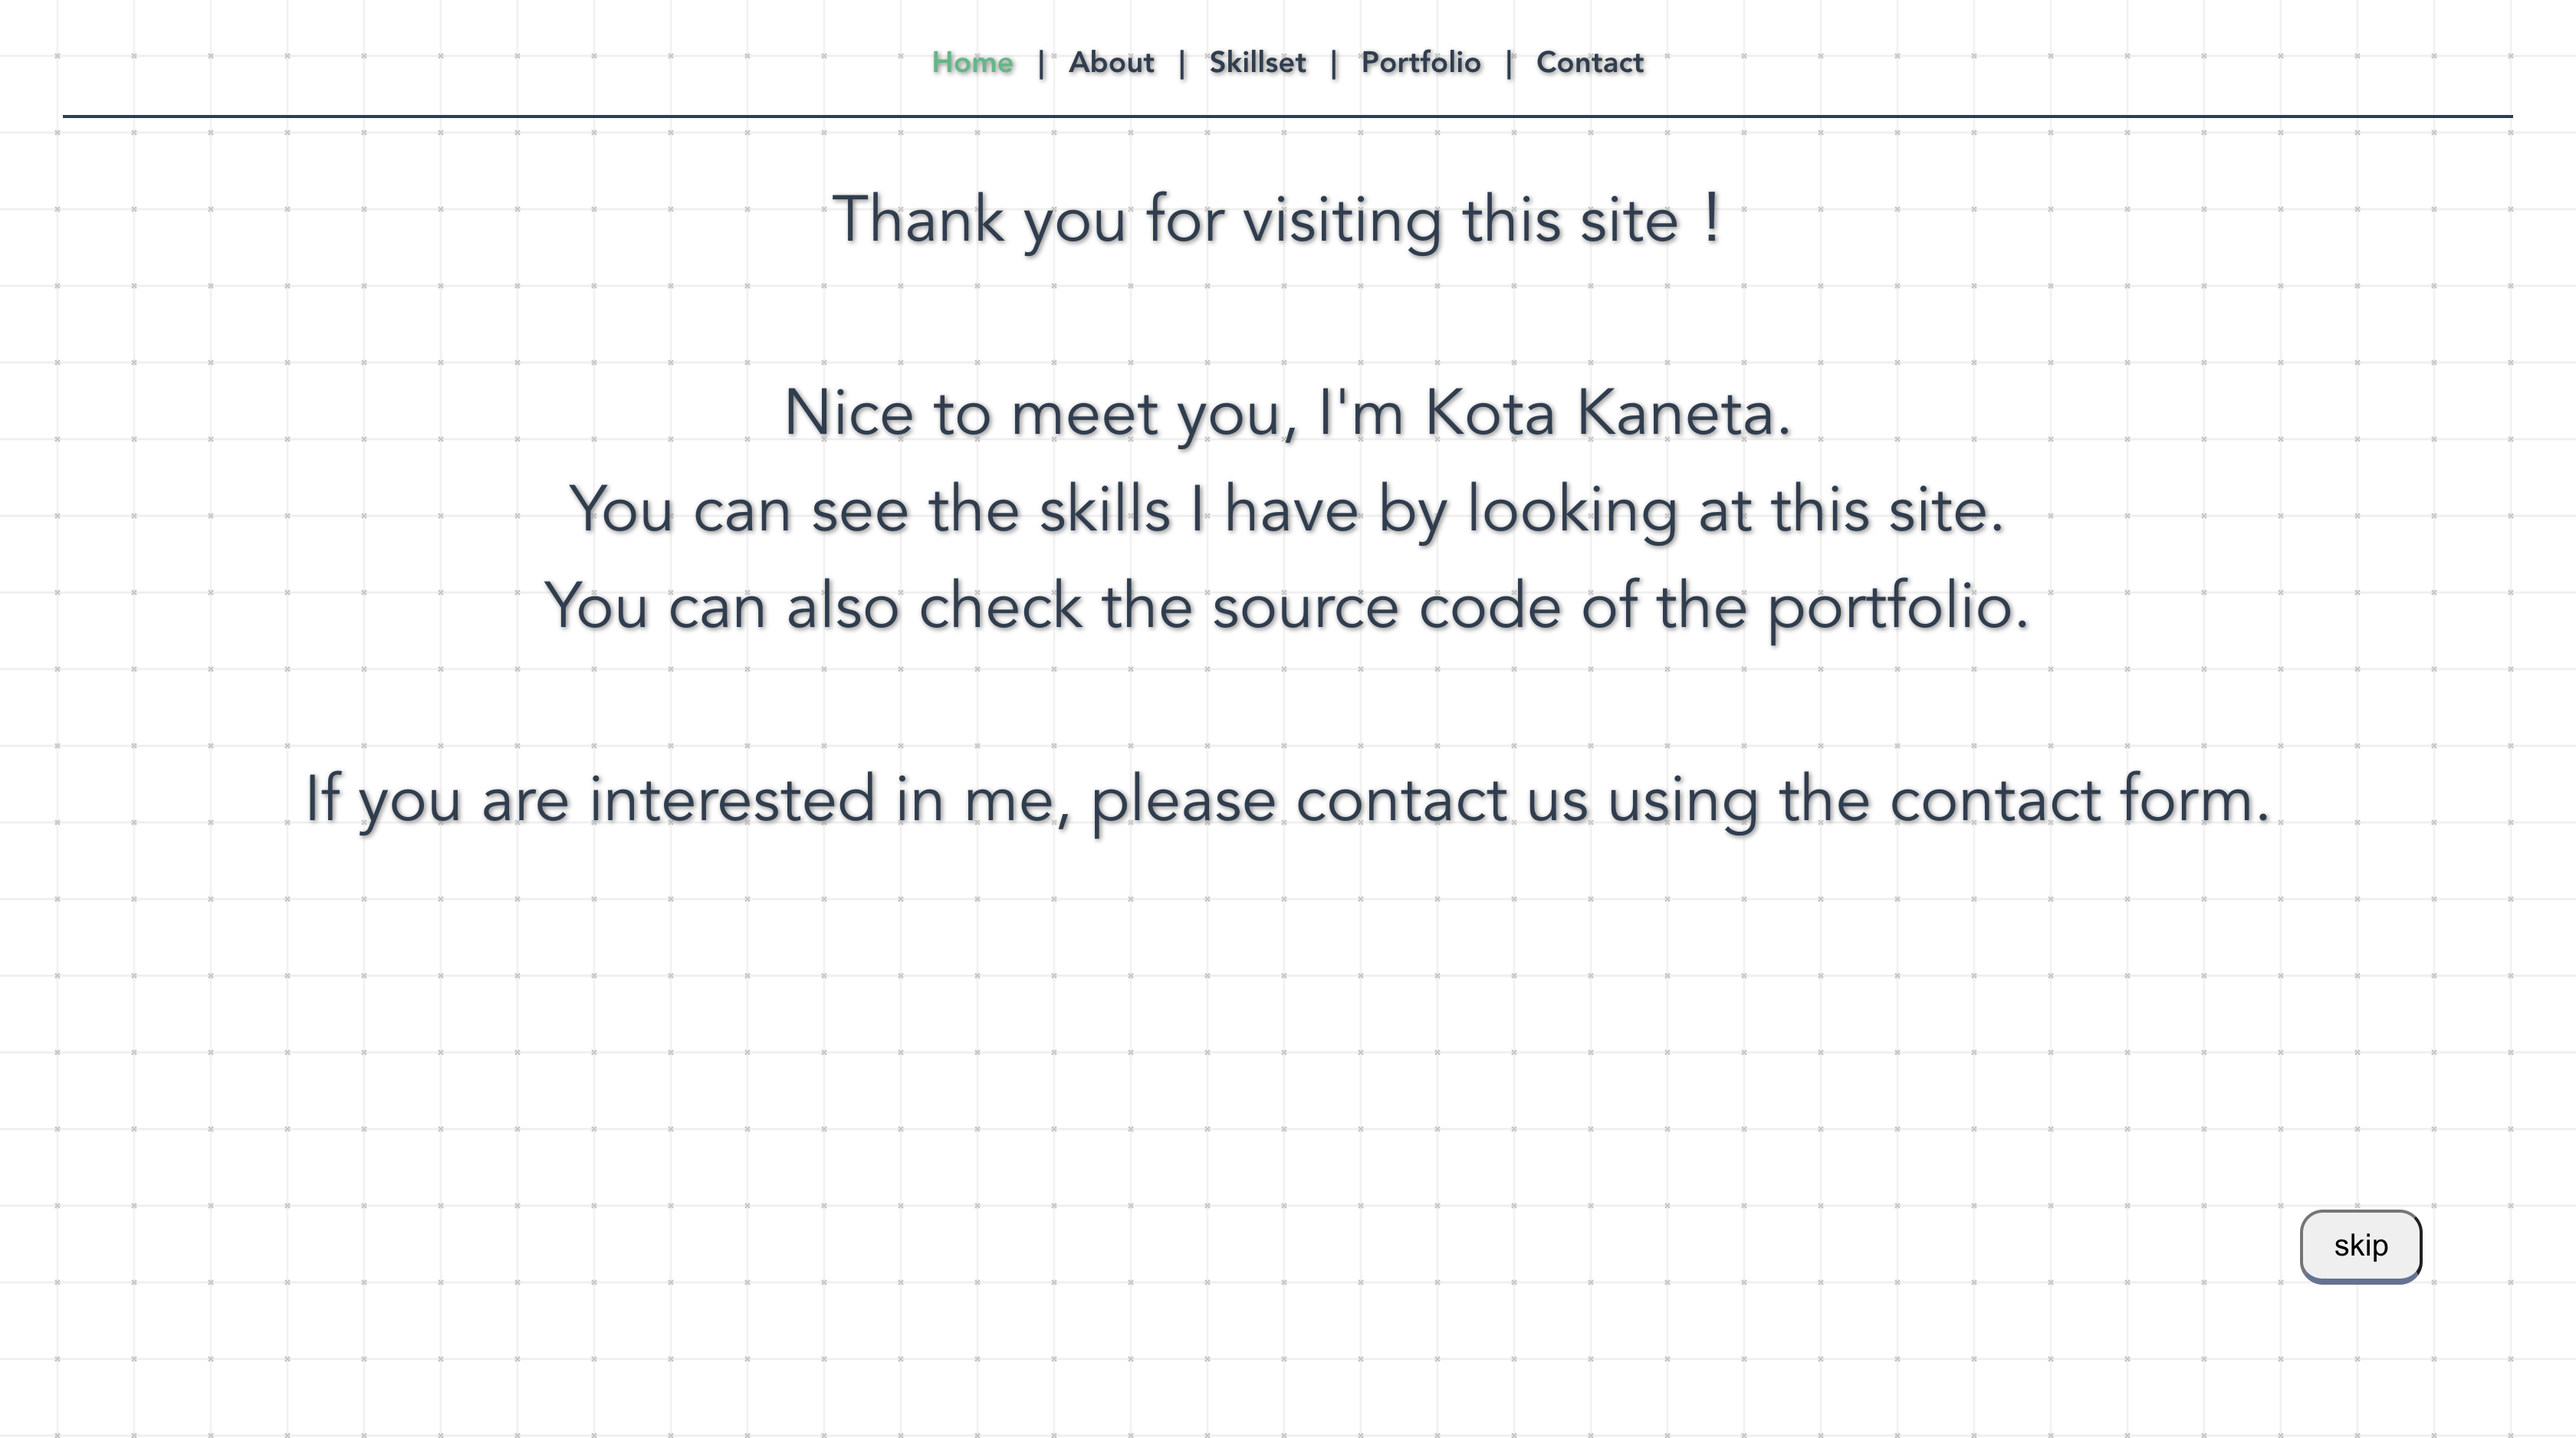
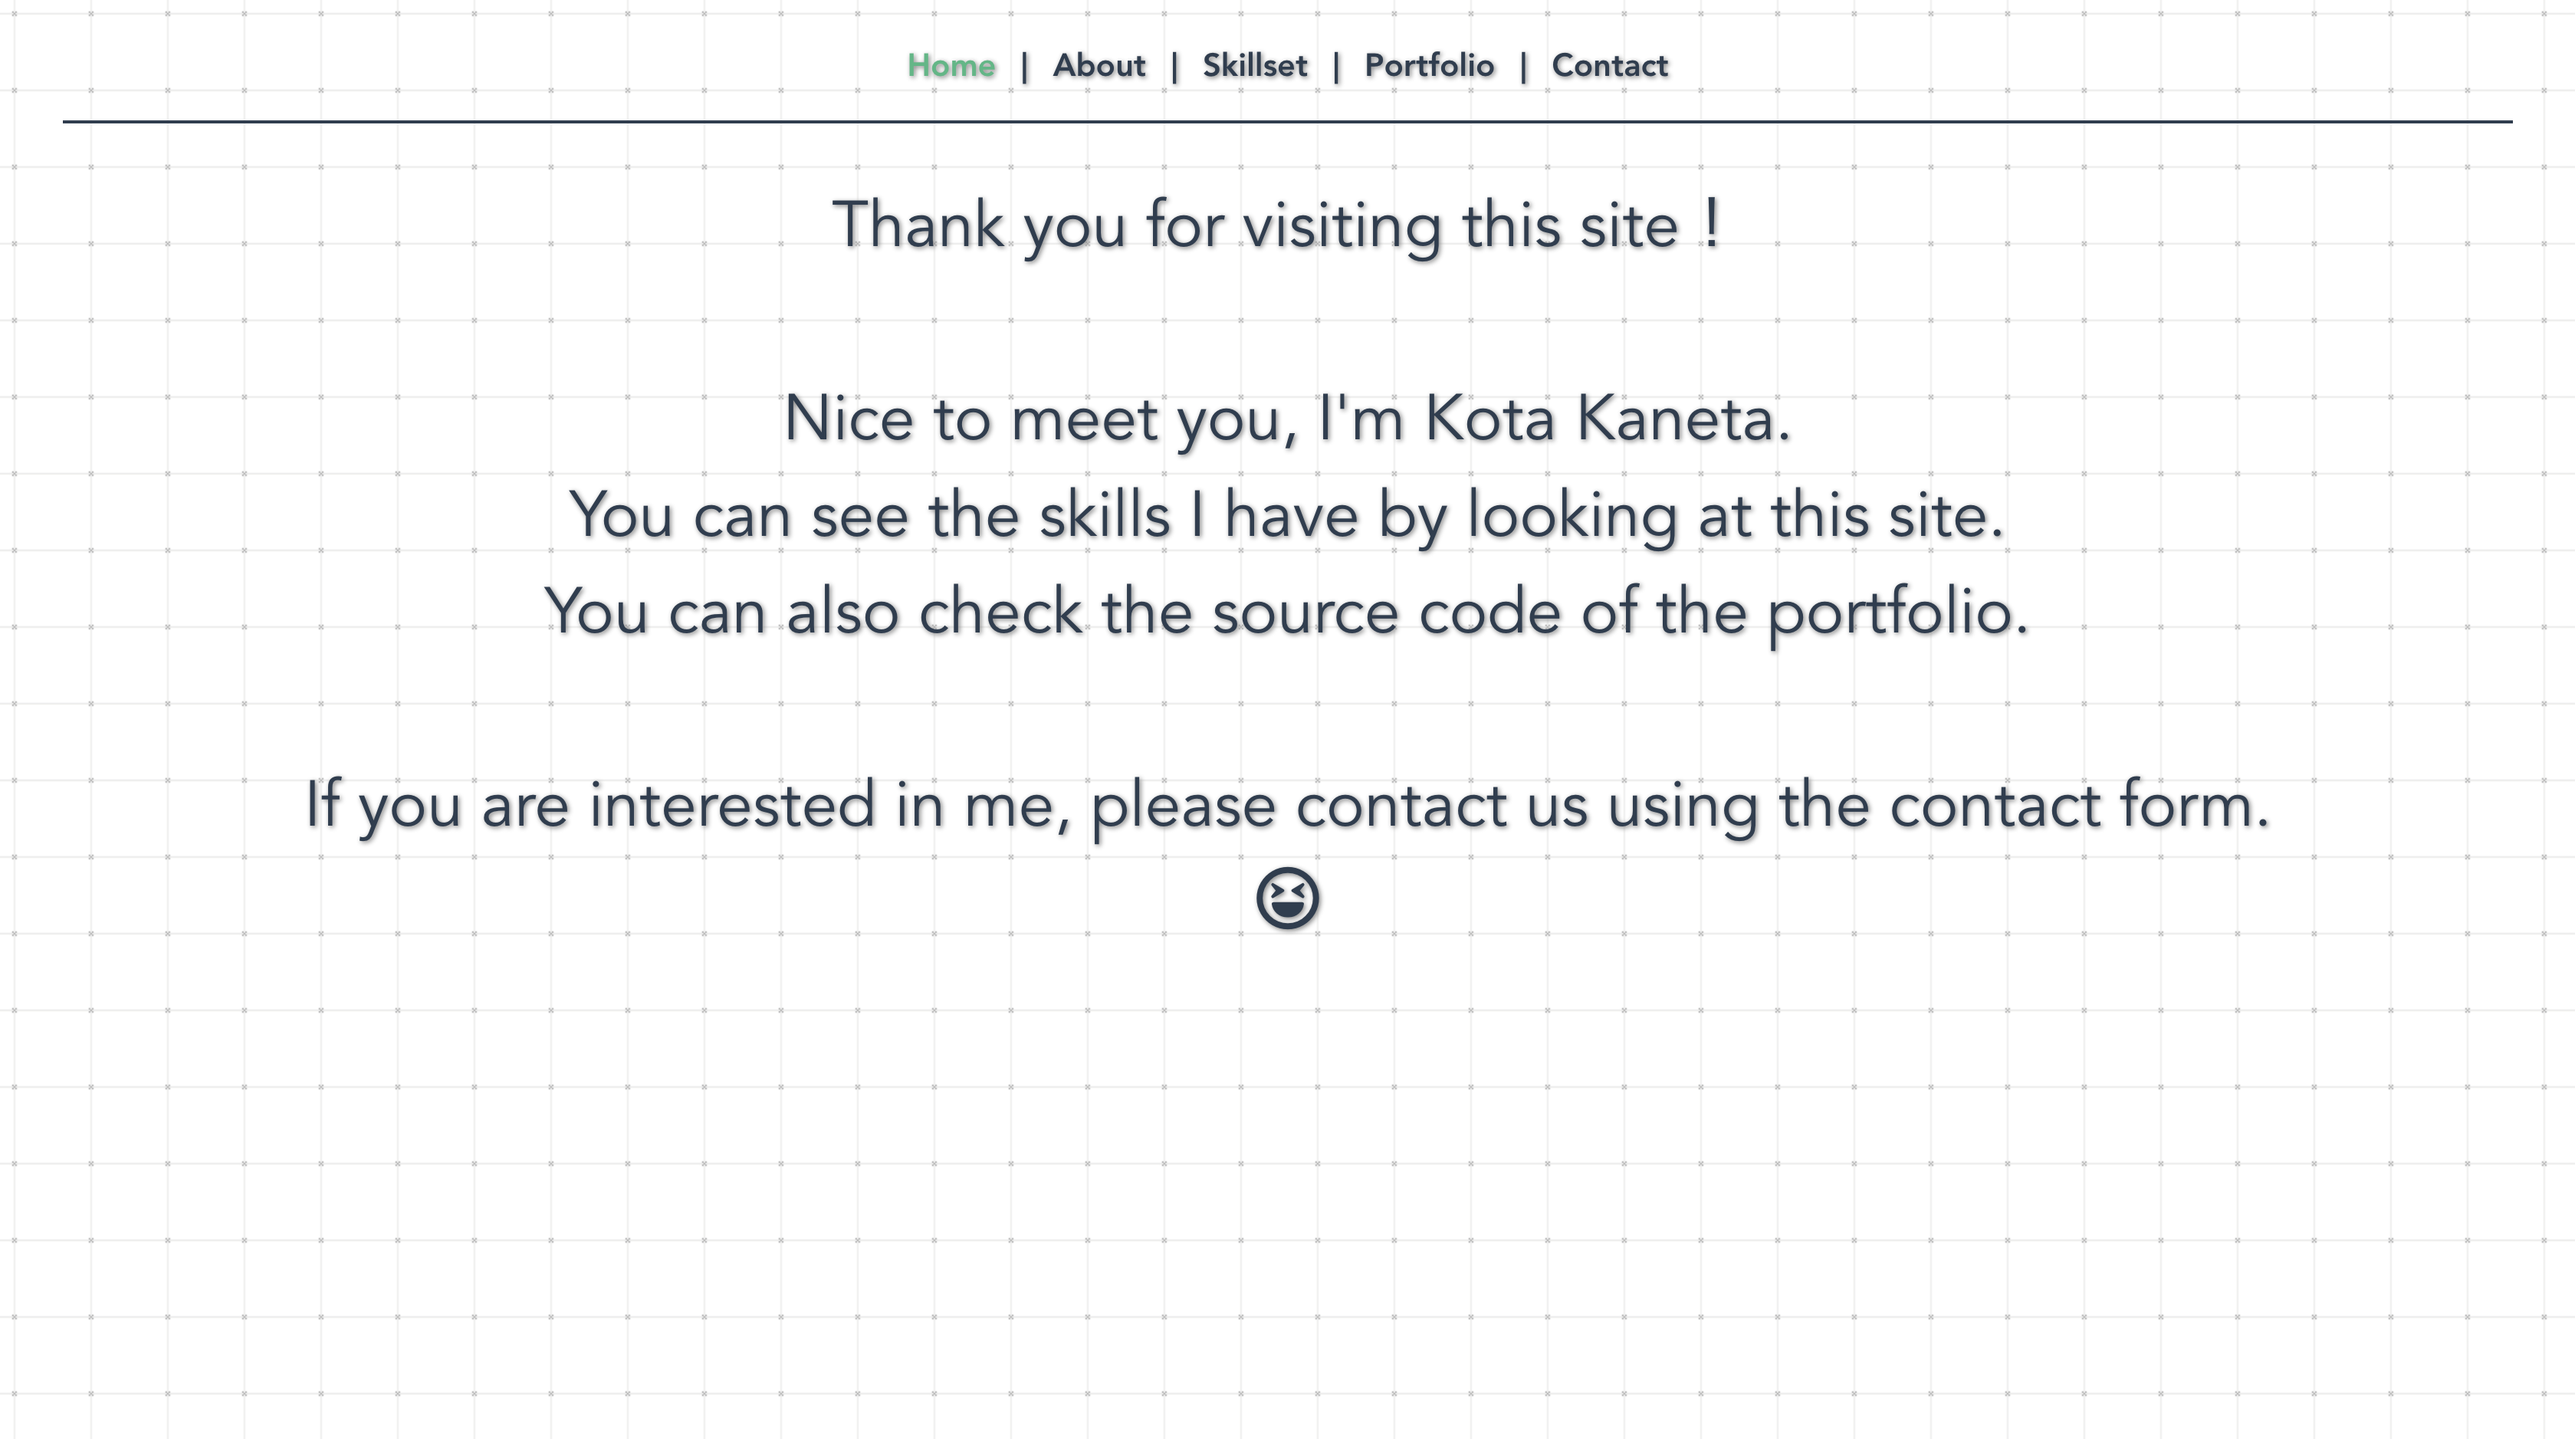
Font Awesomeアイコン

diff --git a/src/views/Portfolio.vue b/src/views/Portfolio.vue
@@ -2,8 +2,8 @@
   <div id="portfolio">
     <transition appear>
       <div>
-        <Header>Portfolio</Header>
-        <Separation>mypage（制作中）</Separation>
+        <Header>Portfolio<i class="fas fa-book-open"></i></Header>
+        <Separation><i class="far fa-sticky-note"></i>mypage</Separation>
         <hr class="hr-portfolio"><br>
 
         <p class="show">
@@ -22,16 +22,20 @@
             <hr class="hr-portfolio">
             <img src="@/assets/mypage.gif" width="350" height="195" border="1">
             <p> 
-                当サイトです。<br>作成したポートフォリオ一覧を掲載しています。<br><br>
-                （Vue.js / Node.js / Netlify ...etc）<br><br>
-                GitHub⇨<a href="https://github.com/kota-kaneta/mypage">https://github.com/kota-kaneta/mypage</a><br>
-                サイト⇨<a href="https://kota-kaneta.netlify.app/" ontouchstart="">https://kota-kaneta.netlify.app/</a>
+              当サイトです。<br>作成したポートフォリオ一覧を掲載しています。<br><br>
+              （Vue.js / Node.js / Netlify ...etc）<br><br>
+              <a href="https://kota-kaneta.netlify.app/" ontouchstart="">
+                <p><i class="far fa-sticky-note"></i> mypage</p>
+              </a>
+              <a href="https://github.com/kota-kaneta">
+                <p><i class="fab fa-github"></i> GitHub (mypage)</p>
+              </a>
             </p>
            </div>
         </div>
         </transition>
 
-        <Separation>L-searcher</Separation>
+        <Separation><i class="far fa-sticky-note"></i>L-searcher</Separation>
         <hr class="hr-portfolio"><br>
 
         <p class="show">
@@ -56,10 +60,13 @@
             知人の暇な時間をタイムラインで表示できるアプリケーションです。<br>
             ユーザーIDを用いてアカウントを検索し、フォローすることができます。<br><br>
             （Rails / AWS / Capistrano ...etc）<br><br>
-            GitHub⇨<a href="https://github.com/kota-kaneta/L-searcher">https://github.com/kota-kaneta/L-searcher</a><br>
-            サイト⇨<a href="https://l-searcher.com/" ontouchstart="">https://l-searcher.com/</a><br>
+            <a href="https://l-searcher.herokuapp.com/" ontouchstart="">
+              <p><i class="far fa-sticky-note"></i>L-searcher</p>
+            </a>
+            <a href="https://github.com/kota-kaneta/L-searcher">
+              <p><i class="fab fa-github"></i>GitHub (L-searcher)</p>
+            </a>
             <p class="heroku">※2021年1月10日にデプロイ先をAWSからHerokuに変更いたしました。</p>
-            サイト⇨<a href="https://l-searcher.herokuapp.com/" ontouchstart="">https://l-searcher.herokuapp.com/</a>
           </div>
         </div>
         </transition>
@@ -69,6 +76,13 @@
 </template>
 
 <style lang="scss" scoped>
+.fas{
+  padding-left: 7px;
+}
+.far{
+  font-size: 25px;
+  padding-right: 5px;
+}
 .heroku{
   color: red;
 }

diff --git a/src/views/Contact.vue b/src/views/Contact.vue
@@ -2,21 +2,32 @@
   <div>
     <transition appear>
       <div class="contect">
-        <Header v-if="isSubmit === false">Contact</Header>
-        <Separation v-if="isSubmit === false">お問い合わせフォーム</Separation>
+        <Header v-if="isSubmit === false">Contact<i class="fab fa-telegram"></i></Header>
+        <Separation v-if="isSubmit === false">
+          お問い合わせフォーム
+        </Separation>
         <hr class="hr-contact" v-if="isSubmit === false">
         <form v-if="isSubmit === false" @submit.prevent="onSubmit" name="contact" netlify>
           <div class="Form" name="contact">
             <div class="Form-Item">
-              <p class="Form-Item-Label"><span class="Form-Item-Label-Required">必須</span>氏名</p>
+              <p class="Form-Item-Label">
+                <!-- <span class="Form-Item-Label-Required">必須</span> -->
+                <i class="fas fa-user-circle"></i>氏名
+              </p>
               <input type="text" v-model="name" name="name" class="Form-Item-Input" placeholder="例）山田太郎">
             </div>
             <div class="Form-Item">
-              <p class="Form-Item-Label"><span class="Form-Item-Label-Required">必須</span>メールアドレス</p>
+              <p class="Form-Item-Label">
+                <!-- <span class="Form-Item-Label-Required">必須</span> -->
+                <i class="fas fa-envelope"></i>メールアドレス
+              </p>
               <input type="email" v-model="email" name="email" class="Form-Item-Input" placeholder="例）example@gmail.com">
             </div>
             <div class="Form-Item">
-              <p class="Form-Item-Label isMsg"><span class="Form-Item-Label-Required">必須</span>お問い合わせ内容</p>
+              <p class="Form-Item-Label isMsg">
+                <!-- <span class="Form-Item-Label-Required">必須</span> -->
+                <i class="fas fa-phone-square"></i>お問い合わせ内容
+              </p>
               <textarea class="Form-Item-Textarea" v-model="message" name="message"></textarea>
             </div>
               <button type="submit" class="Form-Btn"><span class="send">送信する</span></button>
@@ -31,13 +42,24 @@
       </div>
     </transition>
     <div v-if="isSubmit === true" class="thank">
-      お問い合わせありがとうございました。
+      お問い合わせありがとうございました<i class="far fa-laugh-squint"></i>
     </div>
     <div v-if="nothing === true">入力必須項目を埋めてください</div>
   </div>
 </template>
 
 <style scoped>
+.fas{
+  font-size: 25px;
+  padding-right: 5px;
+}
+.far{
+  font-size: 35px;
+  padding-left: 5px;
+}
+.fab{
+  padding-left: 7px;
+}
 .thank{
   font-size: 35px;
   padding-top: 25vh;

diff --git a/src/views/Home.vue b/src/views/Home.vue
@@ -10,7 +10,10 @@
       You can also check the source code of the portfolio.<br><br>
       If you are interested in me, please contact us using the contact form.
     </div>
-    <button @click="skip" class="button">skip</button>
+    <button v-show="beforeButton" @click="skip" class="button">
+      <i class="fas fa-forward"></i>skip
+    </button>
+    <span v-show="afterButton"><i class="far fa-laugh-squint"></i></span>
   </div>
 </template>
 
@@ -19,13 +22,16 @@
   font-size: 42px;
   position: relative;
 }
+.fas{
+  padding-right: 5px;
+}
 .button{
   position: fixed;
   bottom: 100px;
   right: 100px;
   font-size: 20px;
   display: inline-block;
-  padding: 0.5em 1em;
+  padding: 0.5em 0.6em;
   outline: none;
   border-bottom: solid 4px #627295;
   border-radius: 15px;
@@ -58,13 +64,17 @@ export default {
     return{
       skipBefore: true,
       skipAfter: false,
-      text: "Thank you for visiting this site！\n\nNice to meet you, I'm Kota Kaneta.\nYou can see the skills I have by looking at this site.\nYou can also check the source code of the portfolio.\n\nIf you are interested in me, please contact us using the contact form."
+      text: "Thank you for visiting this site！\n\nNice to meet you, I'm Kota Kaneta.\nYou can see the skills I have by looking at this site.\nYou can also check the source code of the portfolio.\n\nIf you are interested in me, please contact us using the contact form.",
+      beforeButton: true,
+      afterButton: false
     }
   },
   methods: {
     skip: function(){
       this.skipBefore = false,
-      this.skipAfter = true
+      this.skipAfter = true,
+      this.beforeButton = false,
+      this.afterButton = true
     }
   }
 }

diff --git a/src/views/About.vue b/src/views/About.vue
@@ -2,11 +2,13 @@
   <div id="about">
     <transition appear>
       <div>
-        <Header>About</Header>
+        <Header>About<i class="fas fa-user-circle"></i></Header>
         <Separation>Profile / Career</Separation>
         <hr class="hr-about">
         <p class="profile-show">
-          1998年生まれ/群馬県出身 <br> <br><br>
+          <i class="fas fa-birthday-cake"></i>
+          1998年生まれ/群馬県出身 
+          <br> <br><br>
           日本大学理工学部を休学しプログラミングを開始<br><br>
           ↓<br><br>
           主にRailsでアプリケーションを開発しながら学習<br><br>
@@ -17,12 +19,18 @@
         </p><br>
         <hr class="hr-about">
         <p class="gmail">Gmail：arusabu0828@gmail.com</p>
+        <a href="https://github.com/kota-kaneta">
+          <p><i class="fab fa-github"></i> GitHub</p>
+        </a>
       </div>
     </transition>
   </div>
 </template>
 
 <style scoped>
+.fas{
+  padding-left: 7px;
+}
 .v-enter-active {
   transition: opacity 5s;
 }
@@ -42,6 +50,13 @@
 .gmail{
   font-size: 18px;
 }
+a {
+  text-decoration: none;
+}
+a:link { color: #0000ff; }
+a:visited { color: #000080; }
+a:hover { color: #ff0000; }
+a:active { color: #ff8000; }
 </style>
 
 <script>

diff --git a/src/App.vue b/src/App.vue
@@ -1,5 +1,6 @@
 <template>
   <div id="app">
+    <link href="https://use.fontawesome.com/releases/v5.6.1/css/all.css" rel="stylesheet">
     <div id="nav">
       <router-link to="/">Home</router-link>  |
       <router-link to="/about">About</router-link> |
@@ -96,8 +97,16 @@ body {
   -o-animation-timing-function:      linear;
   animation-timing-function:         linear;
 }
-
+a {
+  text-decoration: none;
+}
+a:link { color: #0000ff; }
+a:visited { color: #000080; }
+a:hover { color: #ff0000; }
+a:active { color: #ff8000; }
 </style>
+
+<script src="https://kit.fontawesome.com/4194671020.js" crossorigin="anonymous"></script>
 
 <script>
 

diff --git a/src/views/Skillset.vue b/src/views/Skillset.vue
@@ -1,7 +1,7 @@
 <template>
   <transition appear>
   <div class="Doughnut">
-      <Header>Skillset</Header>
+      <Header>Skillset<i class="fas fa-pen-square"></i></Header>
     <p class="blank"></p>
     <h2>Language / Framework</h2>
     <hr id="hr-skill">
@@ -13,6 +13,9 @@
 </template>
 
 <style scoped>
+.fas{
+  padding-left: 7px;
+}
 .Doughnut{
   justify-content: center;
   align-items: center;

diff --git a/src/views/Chart.vue b/src/views/Chart.vue
@@ -42,7 +42,7 @@ export default ({
               })
               return Math.round(indexItem / total * 100) + ' %'
             }
-         }
+          }
         }
       }
     }
